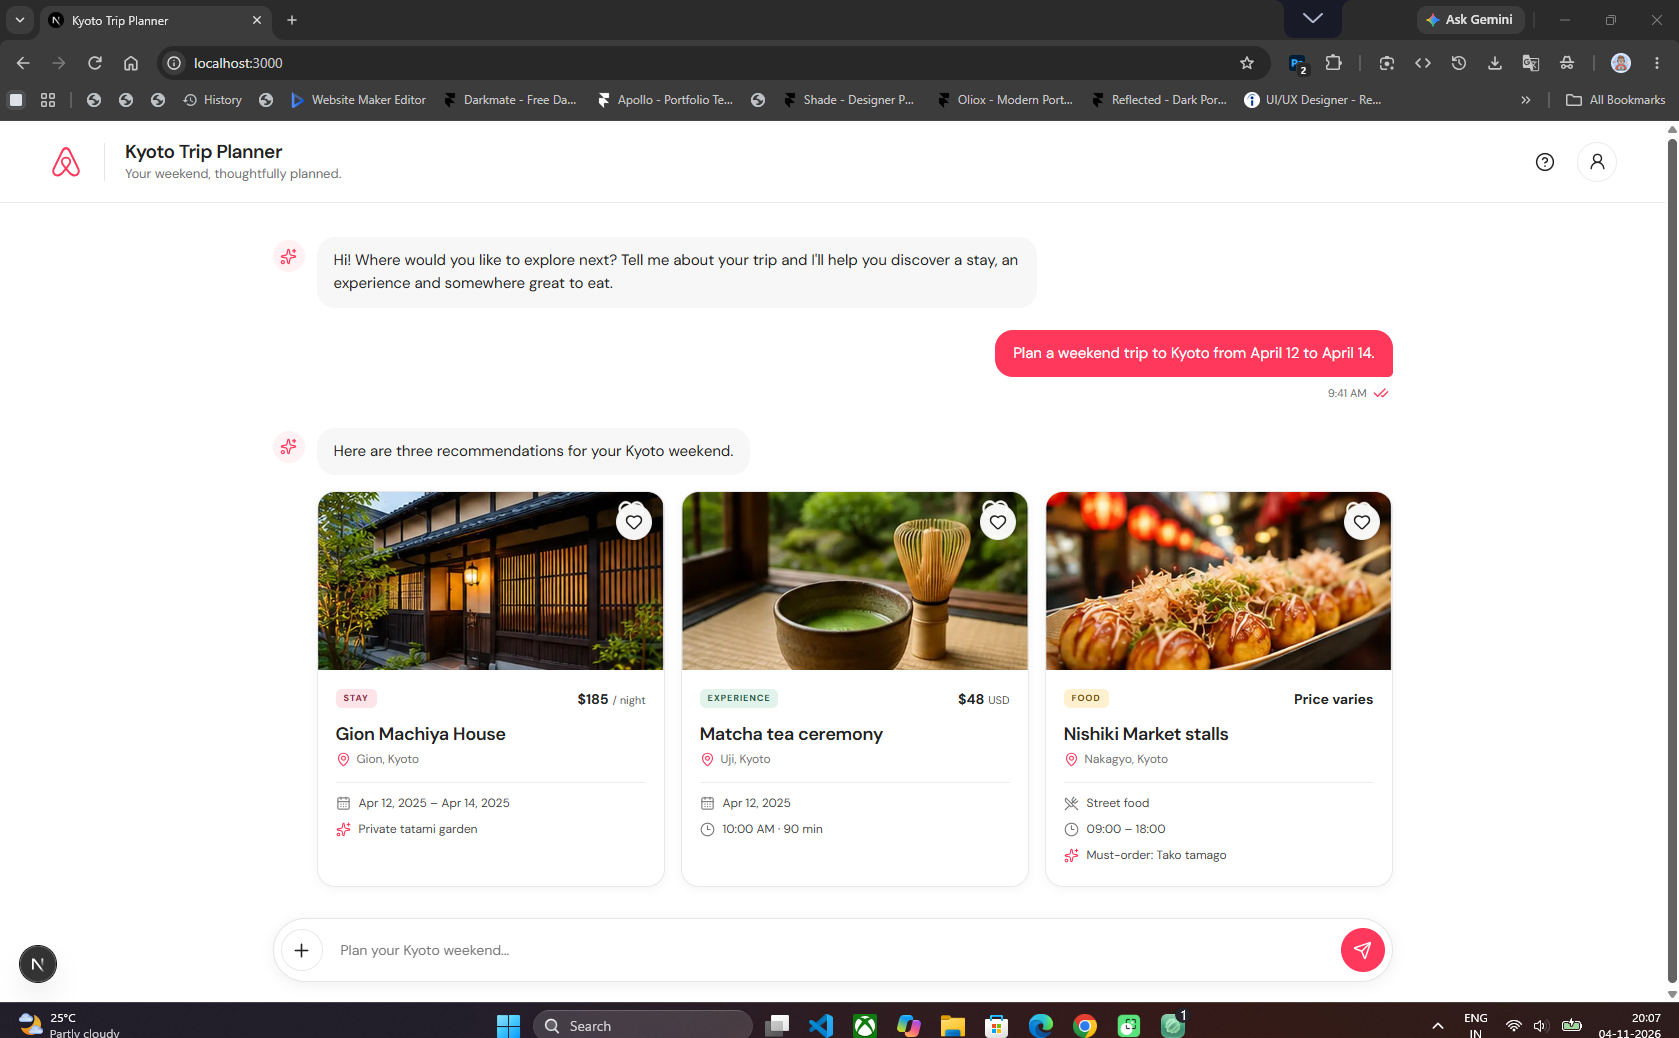
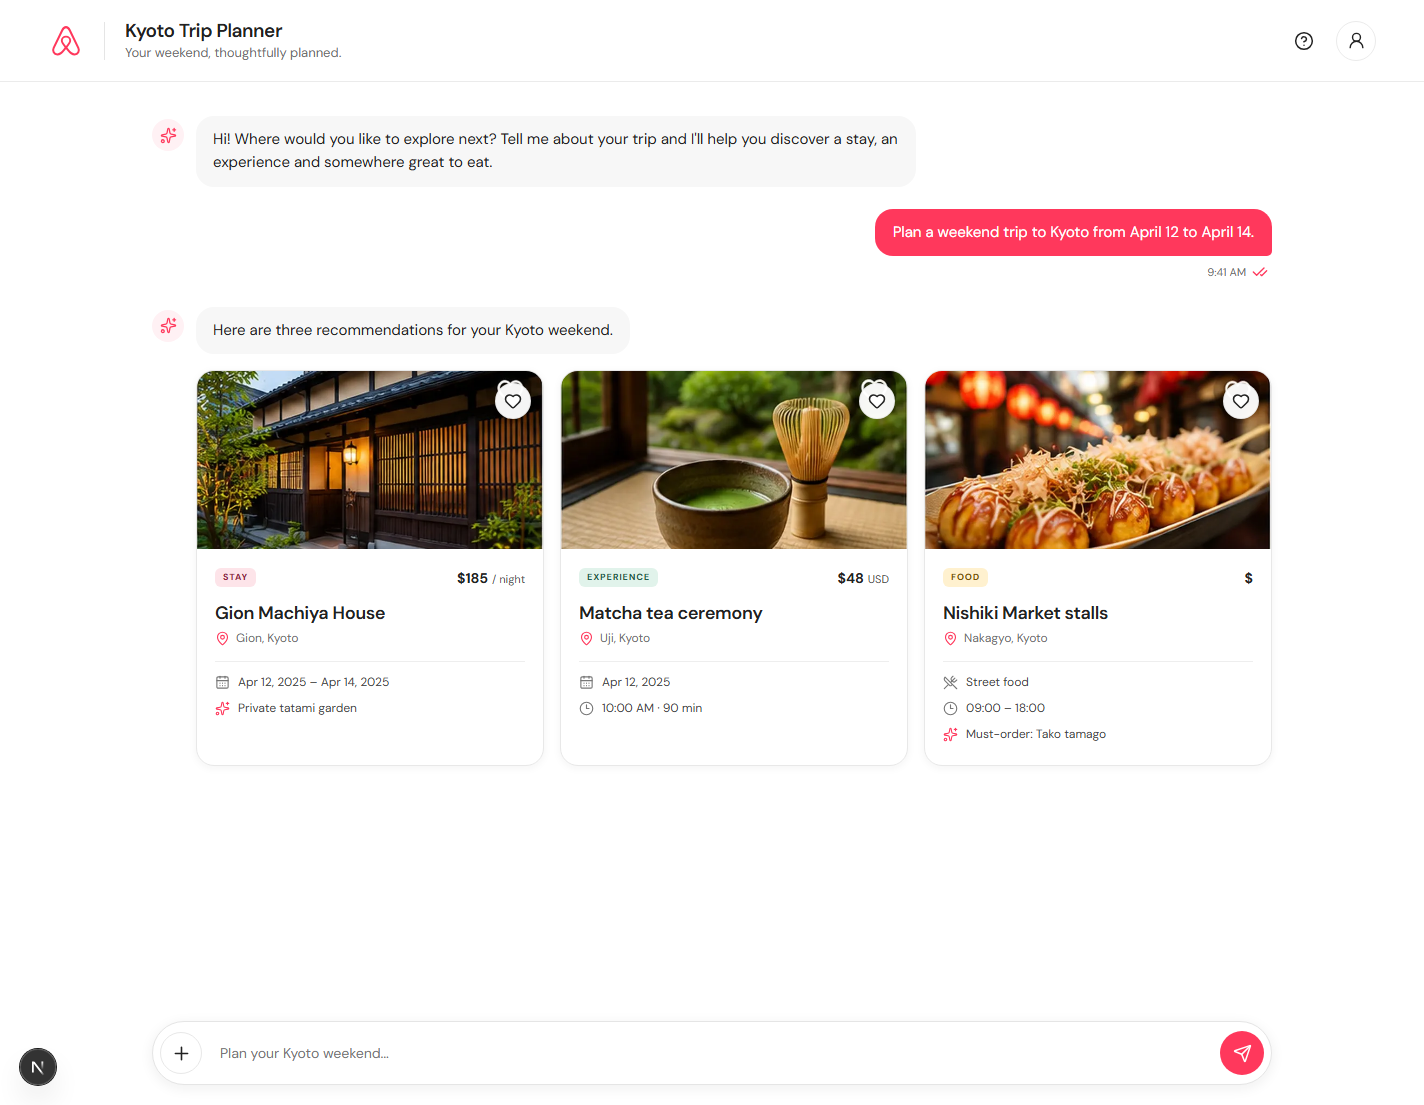
Add example trip prompts and refresh app preview

diff --git a/app/page.tsx b/app/page.tsx
@@ -6,6 +6,7 @@ import { RecommendationCards } from '@/components/cards/RecommendationCards';
 import { ChatHeader } from '@/components/chat/ChatHeader';
 import { ChatInput } from '@/components/chat/ChatInput';
 import { ThinkingIndicator } from '@/components/chat/ThinkingIndicator';
+import { mockTripRequests } from '@/data/mockTripRequests';
 import { kyotoRecommendations } from '@/data/kyotoRecommendations';
 import './globals.css';
 
@@ -20,13 +21,9 @@ type ConversationTurn = {
   status: TurnStatus;
 };
 
-const initialMessage = 'Plan a weekend trip to Kyoto from April 12 to April 14.';
-
 export default function Home() {
   const [draft, setDraft] = useState('');
-  const [turns, setTurns] = useState<ConversationTurn[]>([
-    { id: 0, userMessage: initialMessage, status: 'success' },
-  ]);
+  const [turns, setTurns] = useState<ConversationTurn[]>([]);
   const [isThinking, setIsThinking] = useState(false);
   const nextTurnId = useRef(1);
   const responseTimeout = useRef<ReturnType<typeof setTimeout> | null>(null);
@@ -48,8 +45,8 @@ export default function Home() {
     }, 1100);
   }
 
-  function handleSubmit() {
-    const message = draft.trim();
+  function handleSubmit(request = draft) {
+    const message = request.trim();
     if (!message || isThinking) return;
 
     const turnId = nextTurnId.current++;
@@ -81,7 +78,24 @@ export default function Home() {
           <div className="assistant-avatar" aria-hidden="true">
             <Sparkles size={17} strokeWidth={1.8} />
           </div>
-          <p className="message-bubble assistant-bubble">{welcomeMessage}</p>
+          <div className="assistant-message-copy">
+            <p className="message-bubble assistant-bubble">{welcomeMessage}</p>
+            {turns.length === 0 && (
+              <div className="example-prompts" aria-label="Example trip requests">
+                {mockTripRequests.map((request) => (
+                  <button
+                    className="example-prompt"
+                    key={request}
+                    type="button"
+                    disabled={isThinking}
+                    onClick={() => handleSubmit(request)}
+                  >
+                    {request}
+                  </button>
+                ))}
+              </div>
+            )}
+          </div>
         </div>
 
         {turns.map((turn) => {

diff --git a/app/globals.css b/app/globals.css
@@ -169,6 +169,47 @@ button {
   color: var(--ink);
 }
 
+.assistant-message-copy {
+  min-width: 0;
+  max-width: 780px;
+}
+
+.example-prompts {
+  display: flex;
+  flex-wrap: wrap;
+  gap: 7px;
+  margin-top: 10px;
+}
+
+.example-prompt {
+  max-width: 100%;
+  padding: 7px 11px;
+  border: 1px solid #e8e8e8;
+  border-radius: 999px;
+  background: #ffffff;
+  color: #484848;
+  font-size: 11px;
+  line-height: 1.35;
+  text-align: left;
+  cursor: pointer;
+  transition: background 140ms ease, border-color 140ms ease;
+}
+
+.example-prompt:hover:not(:disabled) {
+  border-color: #d3d3d3;
+  background: #f7f7f7;
+}
+
+.example-prompt:disabled {
+  cursor: default;
+  opacity: 0.6;
+}
+
+.example-prompt:focus-visible {
+  outline: 2px solid rgb(255 56 92 / 40%);
+  outline-offset: 2px;
+}
+
 .assistant-row {
   margin-bottom: 22px;
 }
@@ -655,6 +696,20 @@ button {
 
   .assistant-row {
     margin-bottom: 18px;
+  }
+
+  .assistant-message-copy {
+    width: 100%;
+  }
+
+  .example-prompts {
+    gap: 6px;
+    margin-top: 8px;
+  }
+
+  .example-prompt {
+    padding: 6px 9px;
+    font-size: 10px;
   }
 
   .user-row {

diff --git a/data/mockTripRequests.ts b/data/mockTripRequests.ts
@@ -1,0 +1,5 @@
+export const mockTripRequests = [
+  "Plan a weekend trip to Kyoto from April 12 to April 14.",
+  "I want a traditional stay in Gion, a cultural tea experience and local street food.",
+  "Help me plan a two-day Kyoto getaway with somewhere to stay, an activity and somewhere to eat.",
+] as const;

diff --git a/README.md b/README.md
@@ -111,6 +111,27 @@ npm run dev
 
 Open http://localhost:3000 in your browser.
 
+## Local Development
+
+From the project directory, run:
+
+```bash
+npm install
+npm run dev
+```
+
+Then open http://localhost:3000.
+
+The chat includes these clickable example trip requests:
+
+1. "Plan a weekend trip to Kyoto from April 12 to April 14."
+2. "I want a traditional stay in Gion, a cultural tea experience and local street food."
+3. "Help me plan a two-day Kyoto getaway with somewhere to stay, an activity and somewhere to eat."
+
+Each normal request returns the same workbook-backed mock response with Stay, Experience and Food recommendations. Enter `break my trip` to test the error message and **Try again** recovery flow.
+
+![Kyoto Trip Planner happy path](screenshots/03-cards-state.png)
+
 ## Project Structure
 
 ```text
